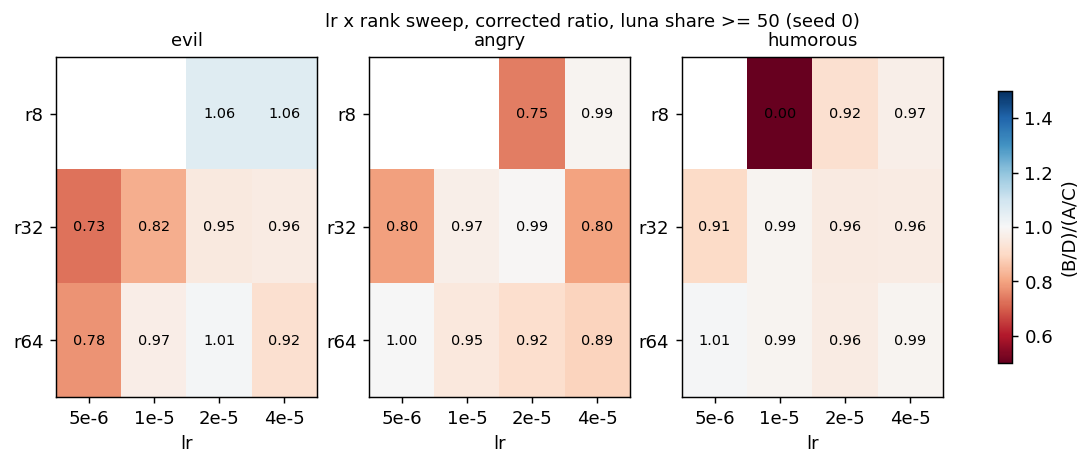
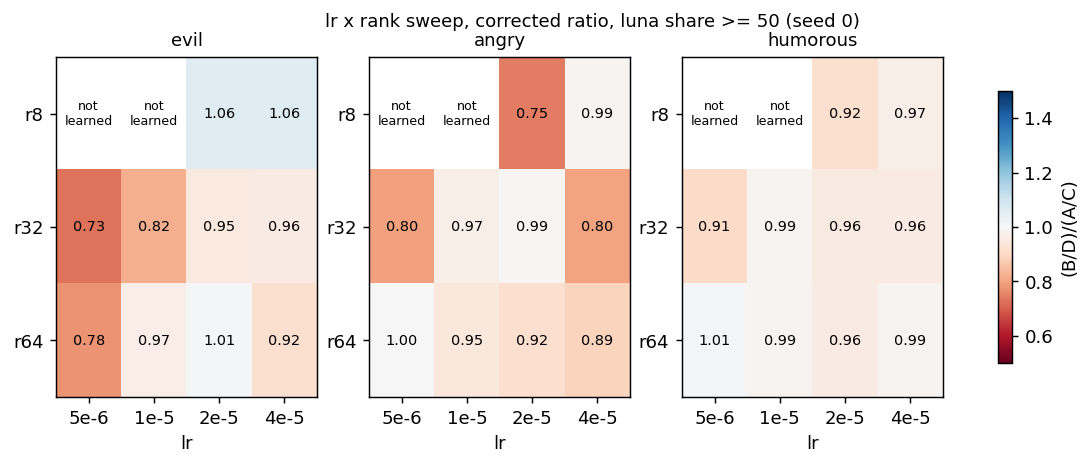
fix: mask unlearned hp configs

Changed region(s): [[0.6233, 0.1202, 0.7479, 0.3605], [0.3428, 0.2103, 0.4675, 0.2704], [0.0623, 0.2103, 0.1558, 0.2704]]

diff --git a/persona/spread_metric/hp.py b/persona/spread_metric/hp.py
@@ -9,6 +9,7 @@ Full strength, 10 answers per question; untouched subtracted. Measures: luna mea
 Readings (fixed in advance): "evil differs" if evil's (B/D)/(A/C) is beyond both angry's and humorous's by > 0.06 in >= 7
 of the 12 configs, with the same sign; "narrow setting" for any config where a persona's B/D < 0.7 while its A >= 50% of
 its own (1e-5, r32) A (flagged configs get seeds 1-2 before being called).
+Configs where a persona's A or C is below 0.05 ("not learned": rank 8 at lr 5e-6 / 1e-5) are excluded from the ratios.
   python hp.py <dir with the judged csvs>   -> results/persona/spread_metric/hp.csv, hp.txt, hp_heatmap_<measure>.png
 """
 import json
@@ -73,6 +74,9 @@ for t, col in COL.items():
                 rows.append(dict(trait=t, measure=m, lr=lr, rank=rk, source=src, A=A, B=B, C=C, D=Dd, B_D=B / Dd,
                                  ratio=(B / Dd) / (A / C), B_A_twins=Tw / A, coh=coh))
 T = pd.DataFrame(rows)
+T["learned"] = (T.A >= 0.05) & (T.C >= 0.05)            # ratios are not interpreted where the persona did not learn
+for c in ("B_D", "ratio", "B_A_twins"):
+    T.loc[~T.learned, c] = np.nan
 T.to_csv(OUT / "hp.csv", index=False)
 L = ["lr x rank sweep (seed 0, cooking); alpha = 2 x rank, rsLoRA; full strength, 10 answers per question; untouched "
      "subtracted. PRIMARY measure: luna mean score / 100; secondary luna share >= 50.", ""]
@@ -119,7 +123,7 @@ for m in MEAS:
         for i in range(g.shape[0]):
             for j in range(g.shape[1]):
                 v = g.values[i, j]
-                ax.text(j, i, "" if np.isnan(v) else f"{v:.2f}", ha="center", va="center", fontsize=8)
+                ax.text(j, i, "not\nlearned" if np.isnan(v) else f"{v:.2f}", ha="center", va="center", fontsize=7 if np.isnan(v) else 8)
         ax.set_xticks(range(len(LRS)), list(LRS)); ax.set_yticks(range(len(RANKS)), [f"r{r}" for r in g.index])
         ax.set_title(t, fontsize=10); ax.set_xlabel("lr")
     fig.colorbar(im, ax=axes, shrink=0.8, label="(B/D)/(A/C)")
